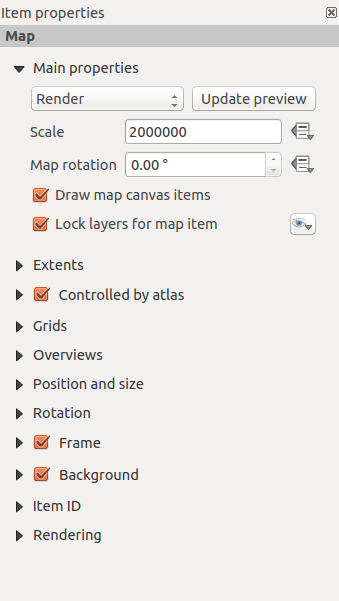
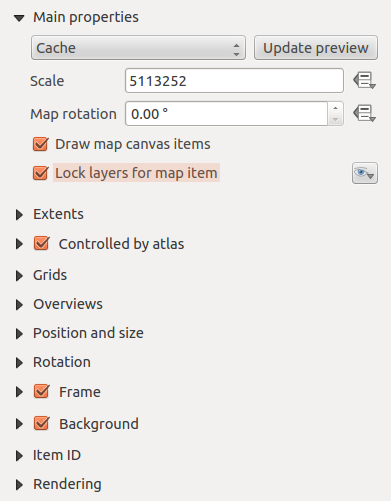
replaced 2 screenshots on print composer map item + explained new button view extent in map canvas

diff --git a/source/docs/user_manual/print_composer/print_composer.rst b/source/docs/user_manual/print_composer/print_composer.rst
@@ -178,6 +178,7 @@ With :kbd:`Ctrl+Spacebar`, you can temporarily switch to marquee zoom mode, and 
 Sample Session
 --------------
 
+
 To demonstrate how to create a map please follow the next instructions.
 
 #. On the left site, select the |mActionAddMap| :sup:`Add new map` toolbar button and draw a rectangle on the canvas holding down the left mouse button. Inside de drawn rectangle the |qg| map view to the canvas.
@@ -378,8 +379,12 @@ functionalities (see figure_composer_5_):
 
    Map Extents Dialog |nix|
 
-* The **Map extent** area allows you to specify the map extent using Y and X min/max
-  values or by clicking the **[Set to map canvas extent]** button.
+* The **Map extents** area allows you to specify the map extent using X and Y min/max
+  values and by clicking the **[Set to map canvas extent]** button. This button sets 
+  the map extent of the composer map item to the extent of the current map view in the 
+  main QGIS application. The button **[View extent in map canvas]** does exactly the 
+  opposite, it updates the extent of the map view in the QGIS application to the extent
+  of the composer map item. 
 
 If you change the view on the |qg| map canvas by changing
 vector or raster properties, you can update the Print Composer view by selecting
